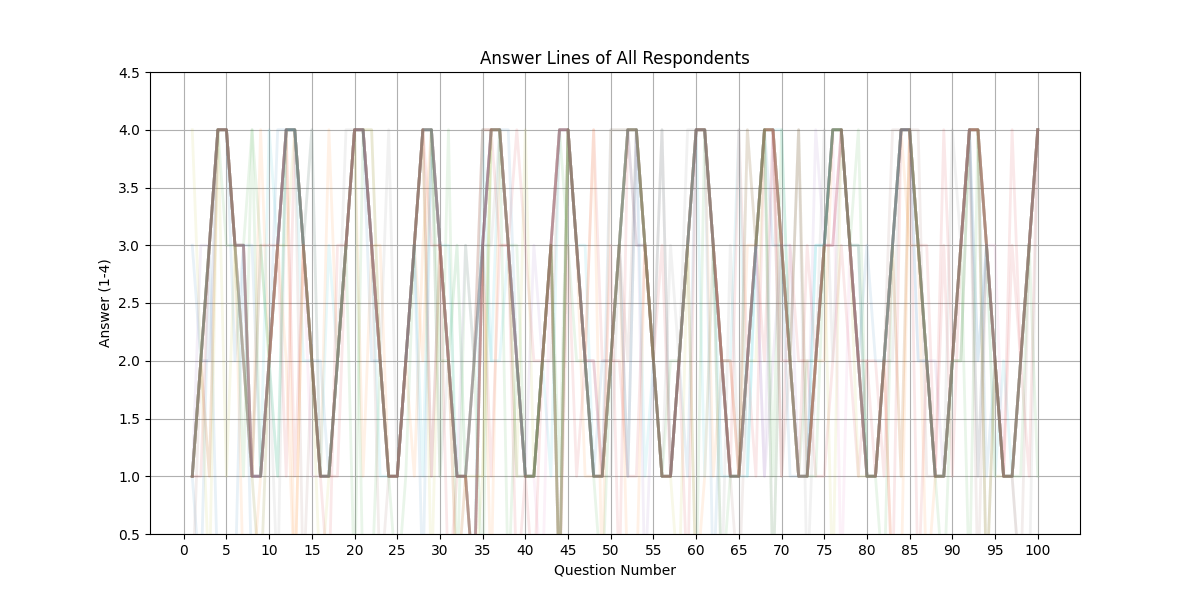
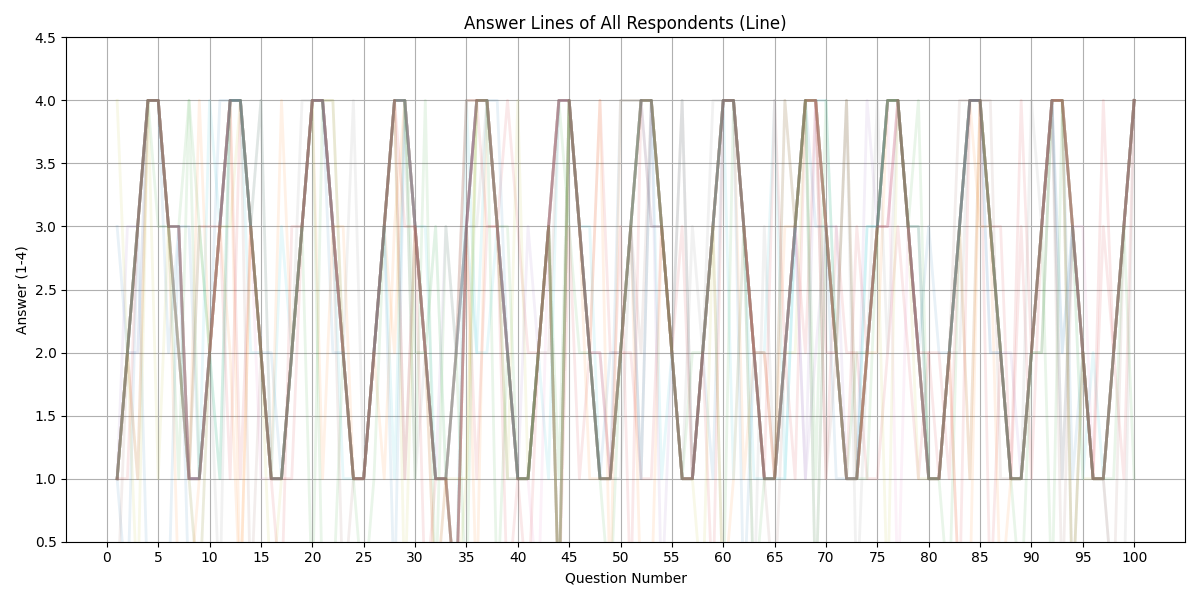
adjusted plot scale size and name

diff --git a/scripts/data_analysis_M3.py b/scripts/data_analysis_M3.py
@@ -96,6 +96,7 @@ def visualize_data(collated_answers_path,n):
         plt.ylim(0.5, 4.5)
         plt.xticks(range(0, 101, 5))
         plt.grid(True)
+        plt.tight_layout()
         plt.savefig("output/mean_scatter_plot.png") 
         plt.show()
     
@@ -103,12 +104,13 @@ def visualize_data(collated_answers_path,n):
         plt.figure(figsize=(12, 6))
         for j in all_answers:
             plt.plot(range(1, 101), j, alpha=0.1, linewidth=2.0)
-        plt.title("Answer Lines of All Respondents")
+        plt.title("Answer Lines of All Respondents (Line)")
         plt.xlabel("Question Number")
         plt.ylabel("Answer (1-4)")
         plt.ylim(0.5, 4.5)
         plt.xticks(range(0, 101, 5))
         plt.grid(True)
+        plt.tight_layout()
         plt.savefig("output/respondent_lines_plot.png")  
         plt.show()
 
